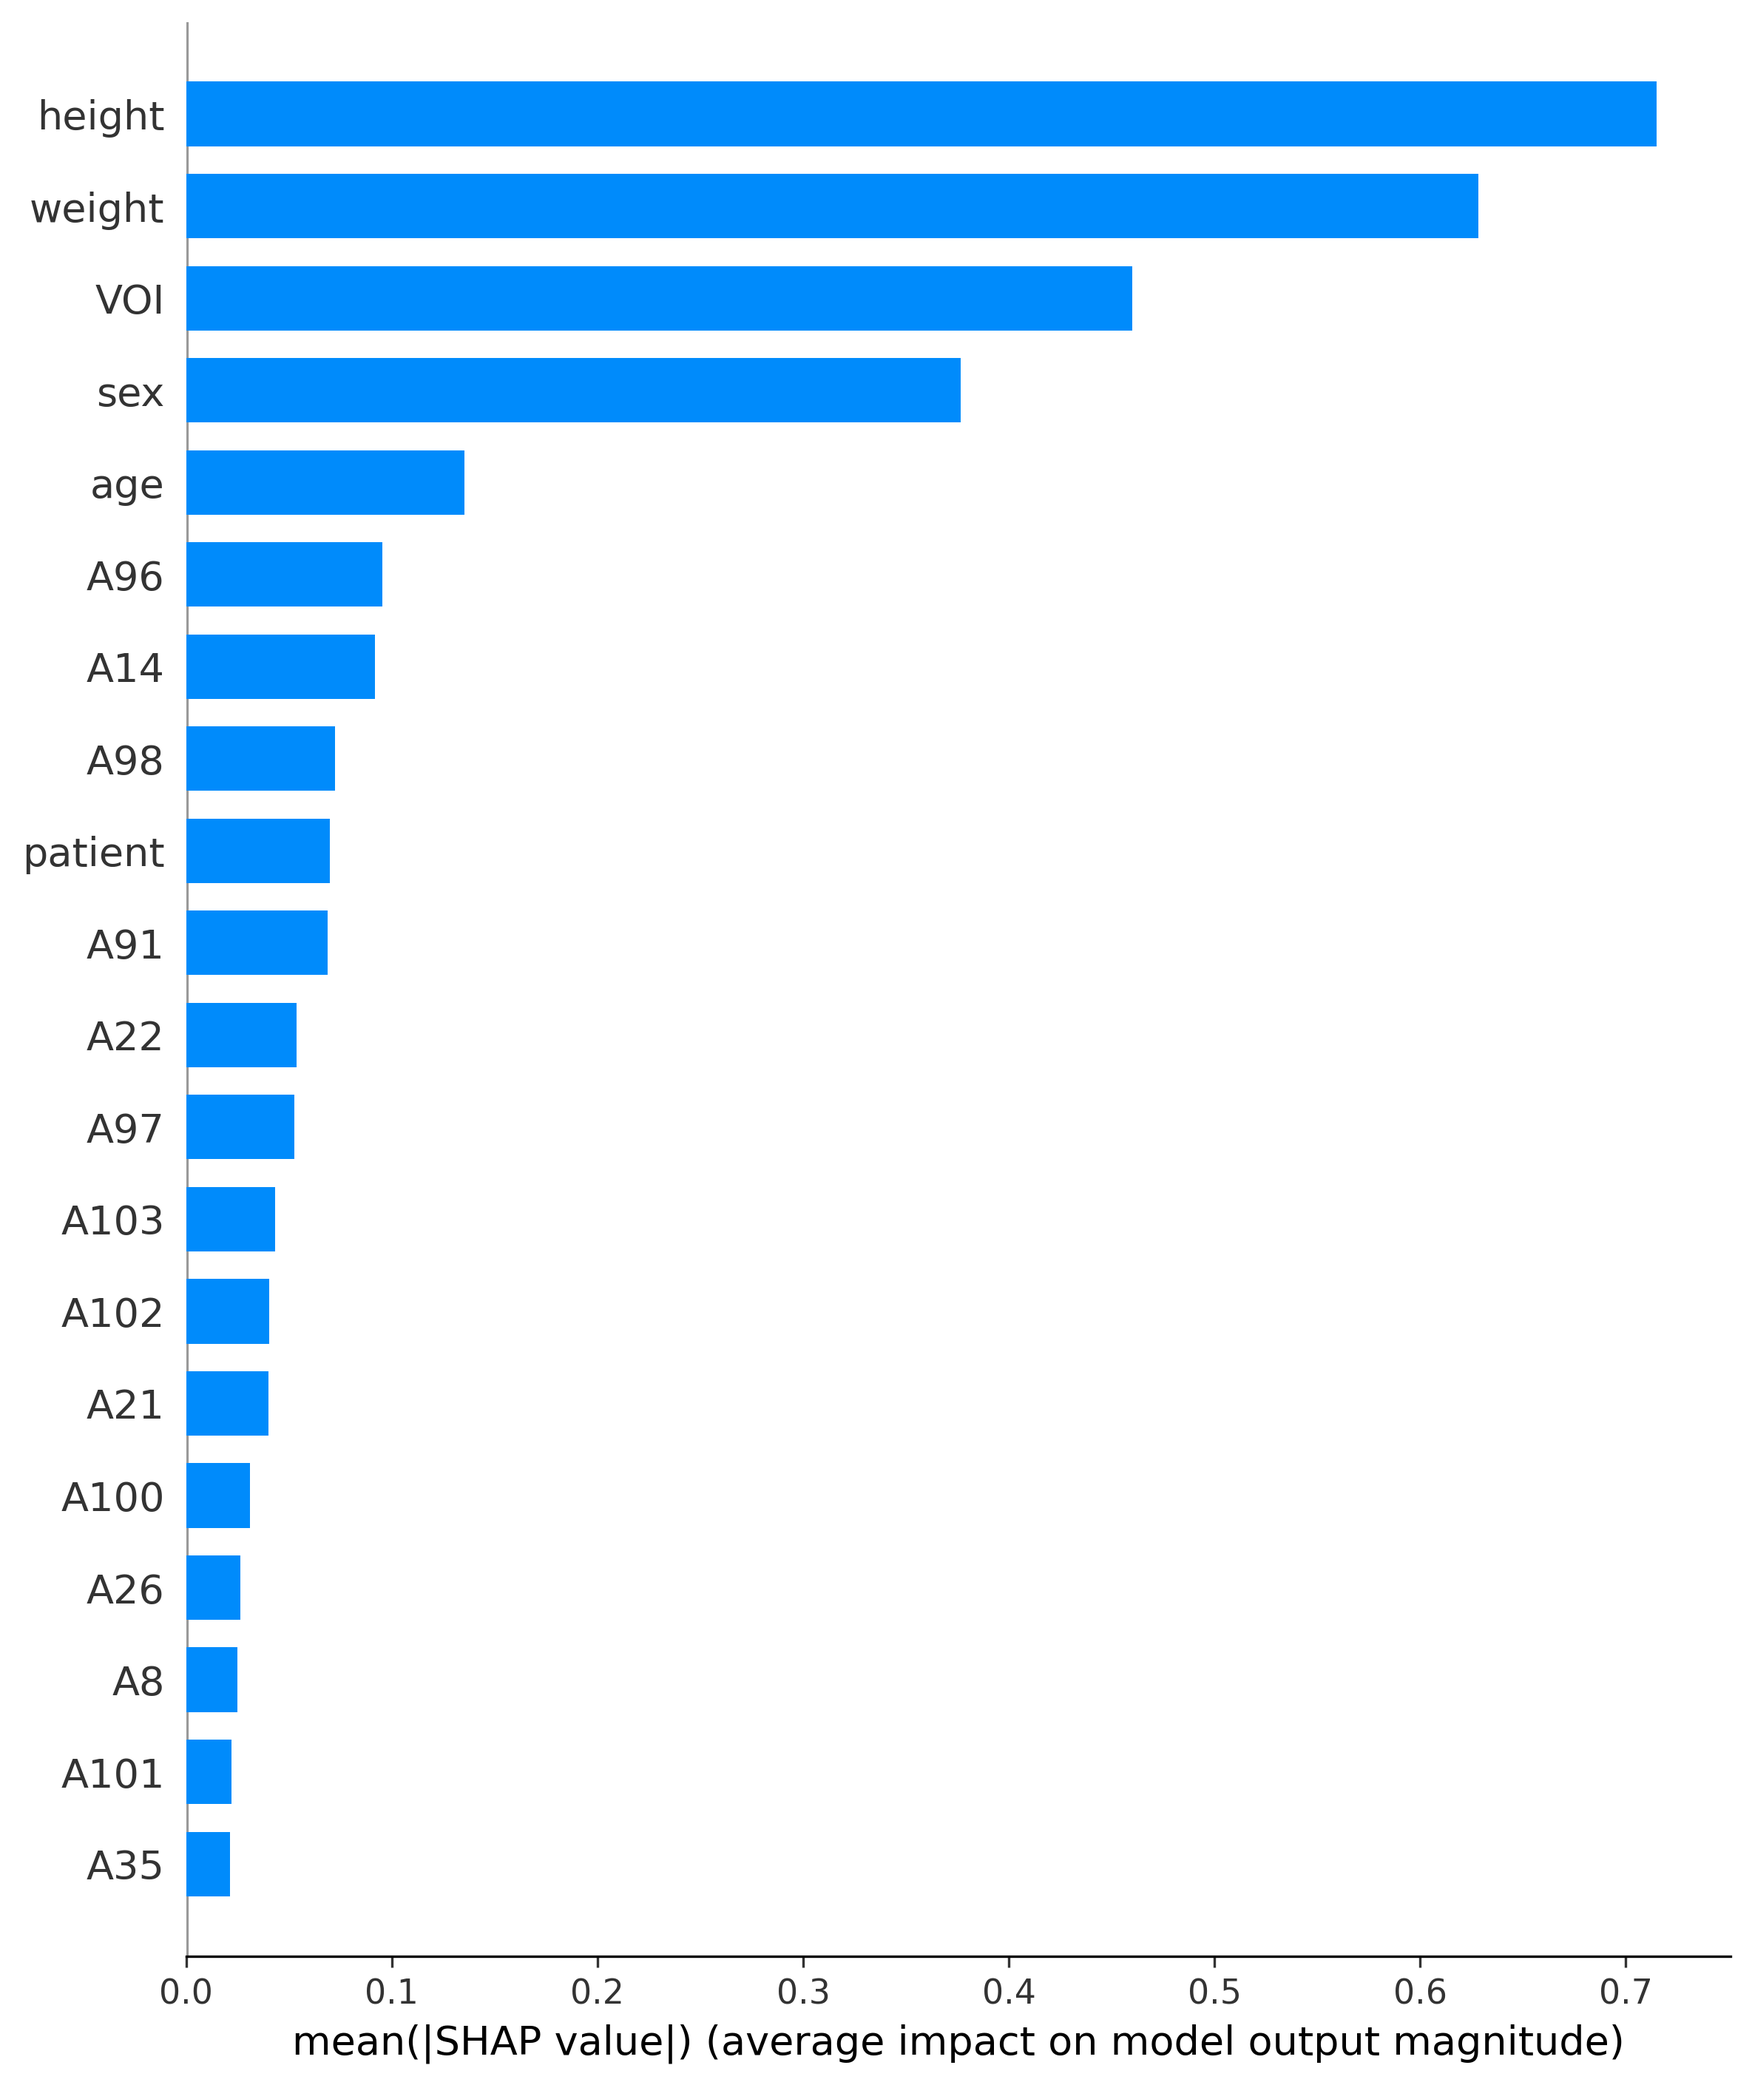
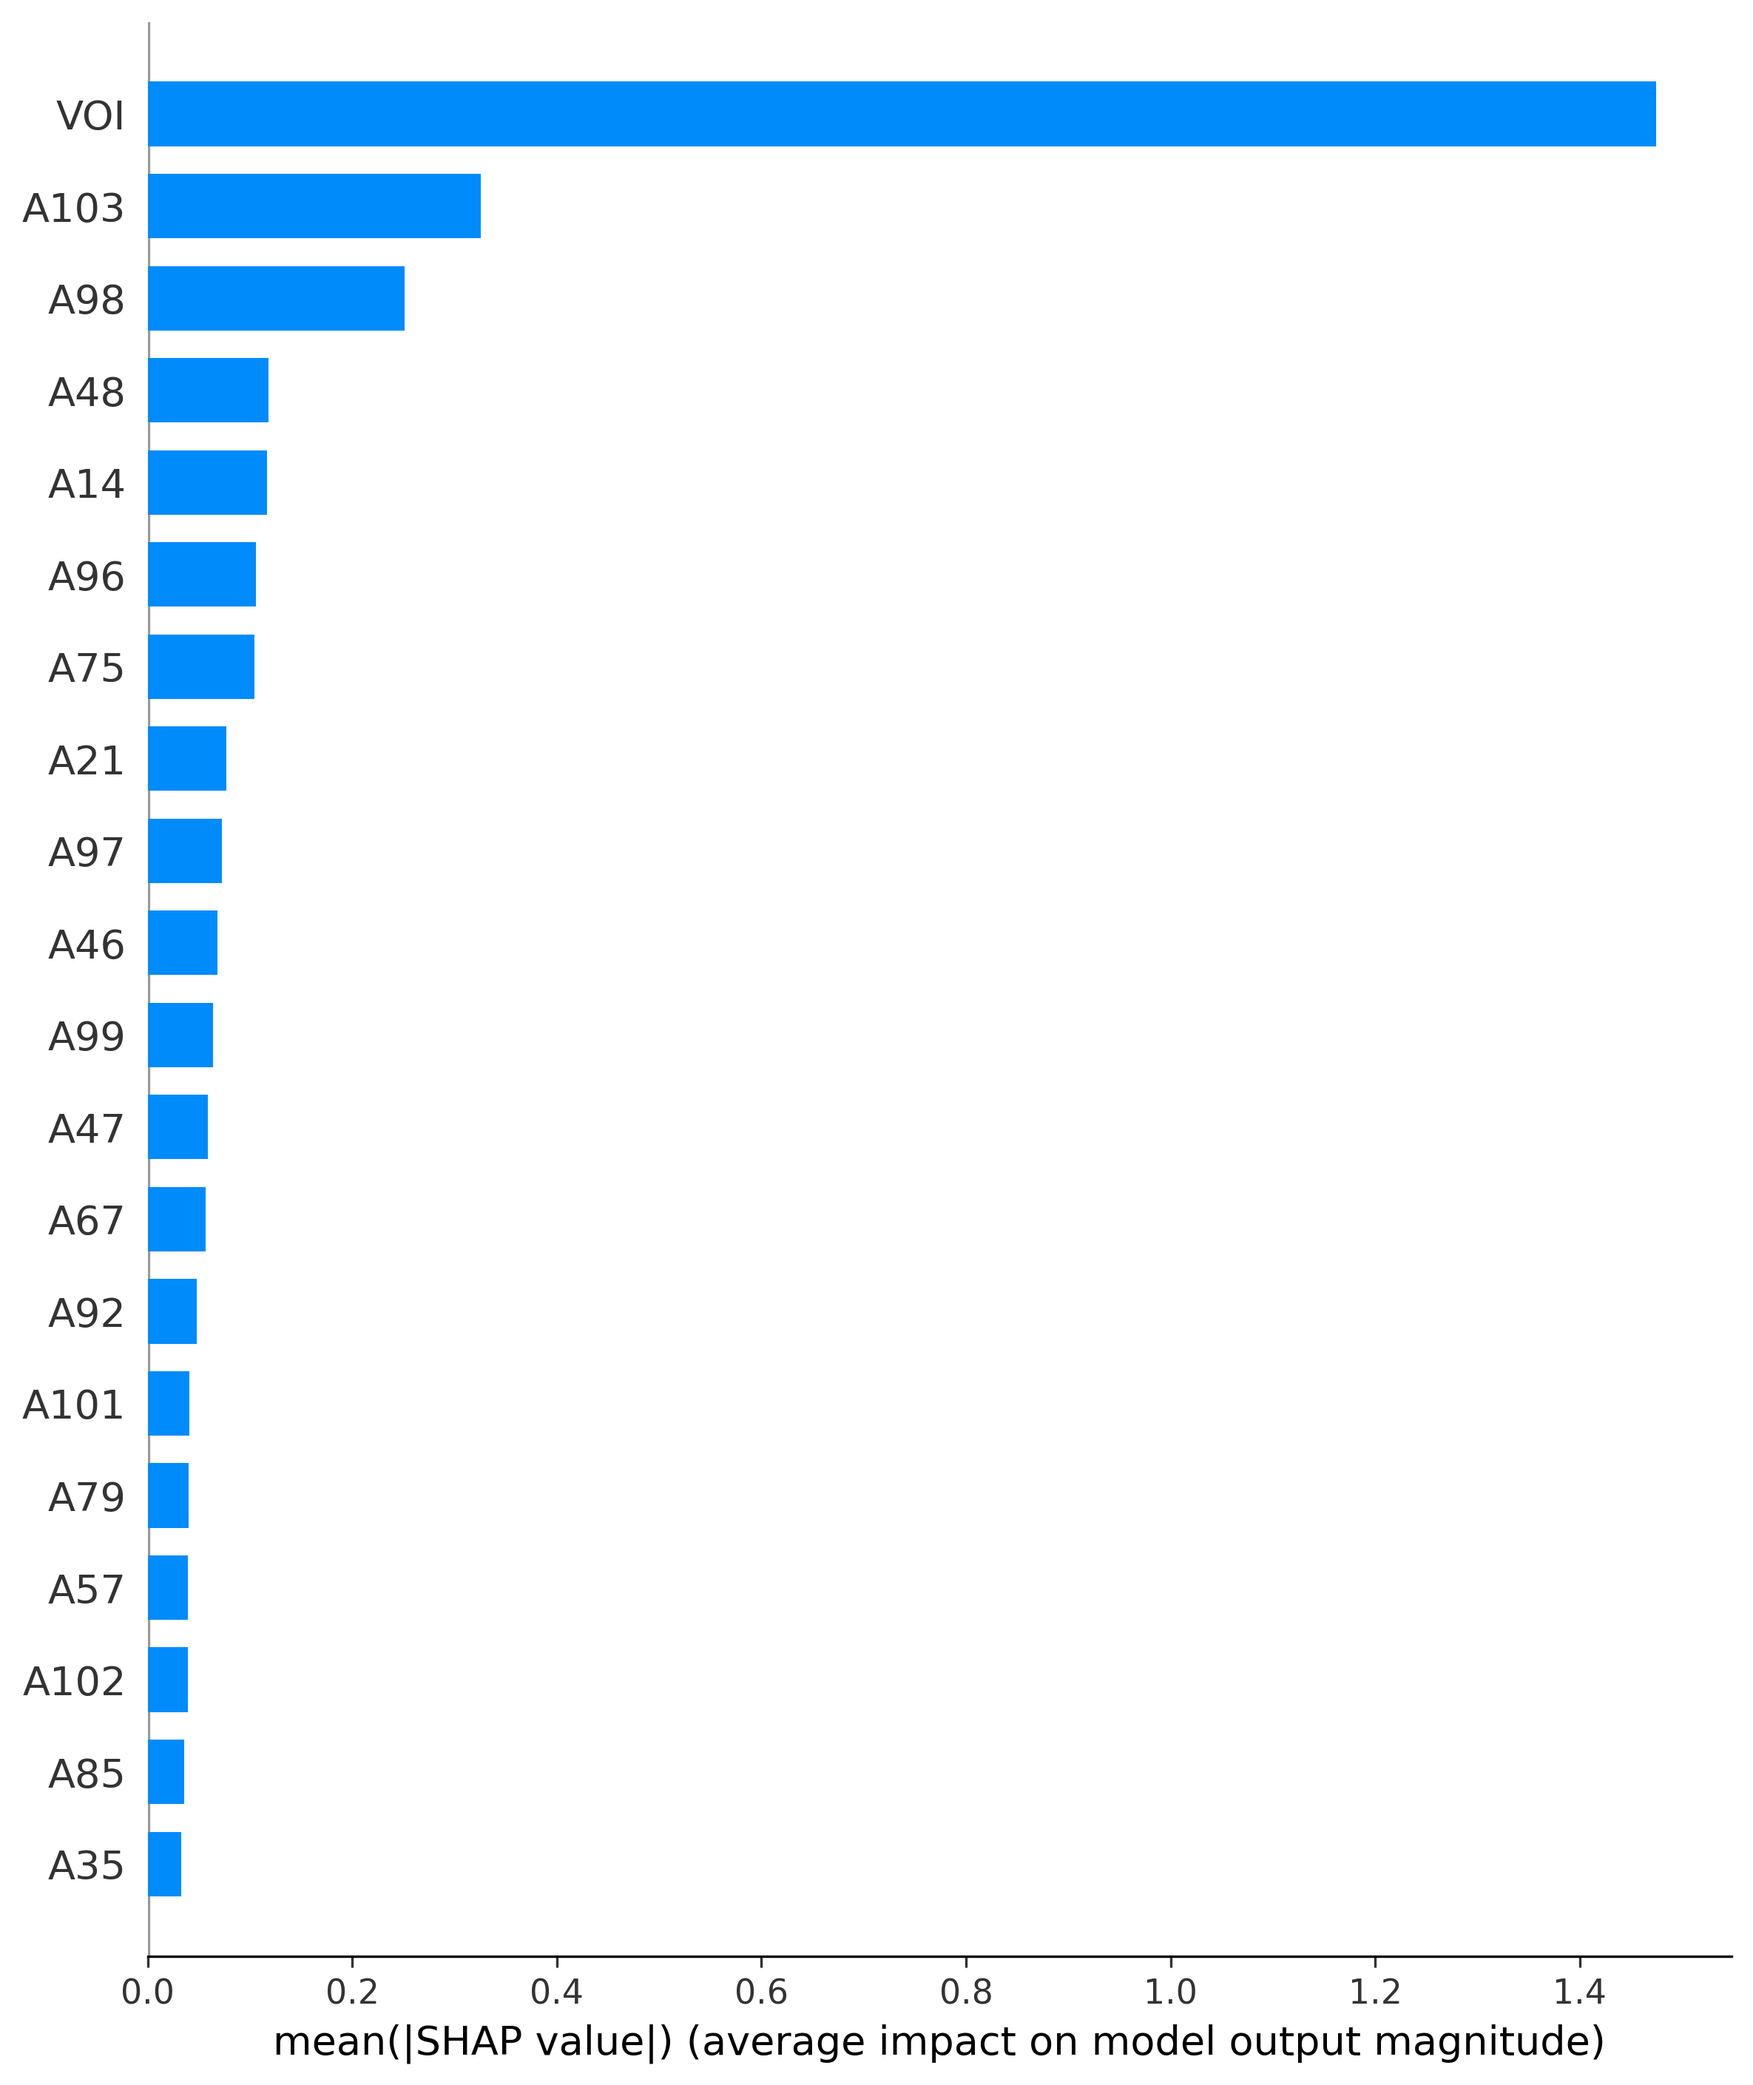
esclusione colonne non utili alla classificazione

Changed region(s): [[0.0, 0.0312, 0.8434, 0.9677], [0.1562, 0.9365, 0.9371, 0.9989]]

diff --git a/data_utils.py b/data_utils.py
@@ -4,20 +4,42 @@ from sklearn.preprocessing import LabelEncoder
 import numpy as np
 
 def load_and_preprocess_data(csv_path: str):
+    """Load and preprocess the dataset from a CSV file. 
+    Args:
+        csv_path: Path to the CSV file.
+    Returns:
+        X_train: Training features.
+        X_test: Testing features.
+        y_train: Training labels.
+        y_test: Testing labels.
+        groups_train: Group labels for the training set.
+        le: Fitted LabelEncoder for decoding class labels.
+    """
     df = pd.read_csv(csv_path)
     df["sex"] = df["sex"].map({"M": 0, "F": 1})
 
     print("Number of unique patients per class:")
     print(df.groupby("type")["patient"].nunique())
 
-    X = df.drop(columns=["type"])
+    # Colonne da escludere dalla classificazione
+    columns_to_exclude = ["type", "patient", "sex", "age", "weight", "height"]
+    
+    # Trova le colonne effettivamente presenti nel dataset
+    columns_present = [col for col in columns_to_exclude if col in df.columns]
+    print(f"\nColumns excluded from classification: {columns_present}")
+    
+    # Estrai features escludendo le colonne specificate
+    X = df.drop(columns=columns_present)
+    print(f"Number of features used for classification: {X.shape[1]}")
+    print(f"Feature columns: {X.columns.tolist()}")
+    
     y = df["type"]
     groups = df["patient"]
 
     # Target encoding
     le = LabelEncoder()
     y_encoded = le.fit_transform(y)
-    print("Target unique values:", np.unique(y_encoded))
+    print("\nTarget unique values:", np.unique(y_encoded))
     print("Number of classes:", len(np.unique(y_encoded)))
 
     # Train-test split

diff --git a/README.md b/README.md
@@ -15,40 +15,40 @@ project/
 Fold 1
               precision    recall  f1-score   support
 
-       DLBCL       0.50      0.87      0.63        15
+       DLBCL       0.47      0.93      0.62        15
           FL       0.00      0.00      0.00         0
           HL       1.00      1.00      1.00        13
-         MCL       1.00      0.56      0.72        32
+         MCL       1.00      0.50      0.67        32
 
-    accuracy                           0.73        60
-   macro avg       0.62      0.61      0.59        60
-weighted avg       0.88      0.73      0.76        60
+    accuracy                           0.72        60
+   macro avg       0.62      0.61      0.57        60
+weighted avg       0.87      0.72      0.73        60
 
 
 Fold 2
               precision    recall  f1-score   support
 
-       DLBCL       0.90      0.75      0.82        12
-          FL       0.26      1.00      0.41         6
+       DLBCL       1.00      1.00      1.00        12
+          FL       0.23      0.83      0.36         6
           HL       1.00      1.00      1.00         7
-         MCL       1.00      0.63      0.78        41
+         MCL       0.96      0.59      0.73        41
 
     accuracy                           0.73        66
-   macro avg       0.79      0.85      0.75        66
-weighted avg       0.91      0.73      0.77        66
+   macro avg       0.80      0.85      0.77        66
+weighted avg       0.90      0.73      0.77        66
 
 
 Fold 3
               precision    recall  f1-score   support
 
-       DLBCL       1.00      0.24      0.38        17
-          FL       0.08      0.10      0.09        21
+       DLBCL       1.00      0.47      0.64        17
+          FL       0.07      0.10      0.08        21
           HL       1.00      1.00      1.00         1
-         MCL       0.16      0.21      0.18        29
+         MCL       0.07      0.07      0.07        29
 
     accuracy                           0.19        68
-   macro avg       0.56      0.38      0.41        68
-weighted avg       0.36      0.19      0.21        68
+   macro avg       0.53      0.41      0.45        68
+weighted avg       0.31      0.19      0.23        68
 
 
 Fold 4
@@ -67,28 +67,28 @@ weighted avg       0.50      0.21      0.30        14
 Fold 5
               precision    recall  f1-score   support
 
-       DLBCL       0.20      1.00      0.33         3
+       DLBCL       0.00      0.00      0.00         3
           FL       0.00      0.00      0.00        24
           HL       1.00      1.00      1.00        12
          MCL       0.00      0.00      0.00         0
 
-    accuracy                           0.38        39
-   macro avg       0.30      0.50      0.33        39
-weighted avg       0.32      0.38      0.33        39
+    accuracy                           0.31        39
+   macro avg       0.25      0.25      0.25        39
+weighted avg       0.31      0.31      0.31        39
 
 Final model trained with 4 classes.
 
 Results on test set:
               precision    recall  f1-score   support
 
-       DLBCL       0.86      0.67      0.75        18
-          FL       0.65      0.80      0.72        35
+       DLBCL       1.00      0.50      0.67        18
+          FL       0.88      0.80      0.84        35
           HL       1.00      1.00      1.00        13
-         MCL       0.81      0.72      0.76        36
+         MCL       0.71      0.94      0.81        36
 
-    accuracy                           0.77       102
-   macro avg       0.83      0.80      0.81       102
-weighted avg       0.79      0.77      0.78       102
+    accuracy                           0.82       102
+   macro avg       0.90      0.81      0.83       102
+weighted avg       0.85      0.82      0.82       102
 ```
 
 ## SHAP RESULTS
